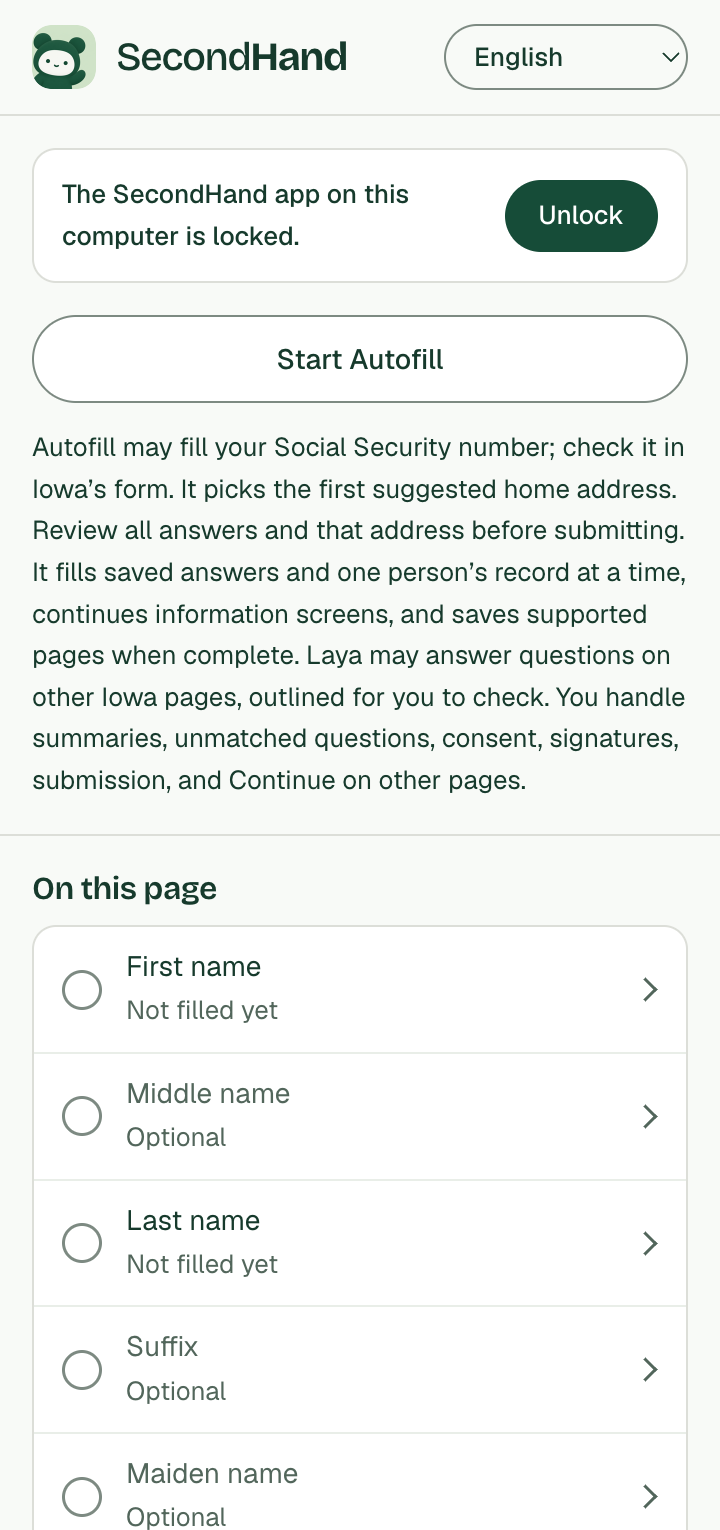
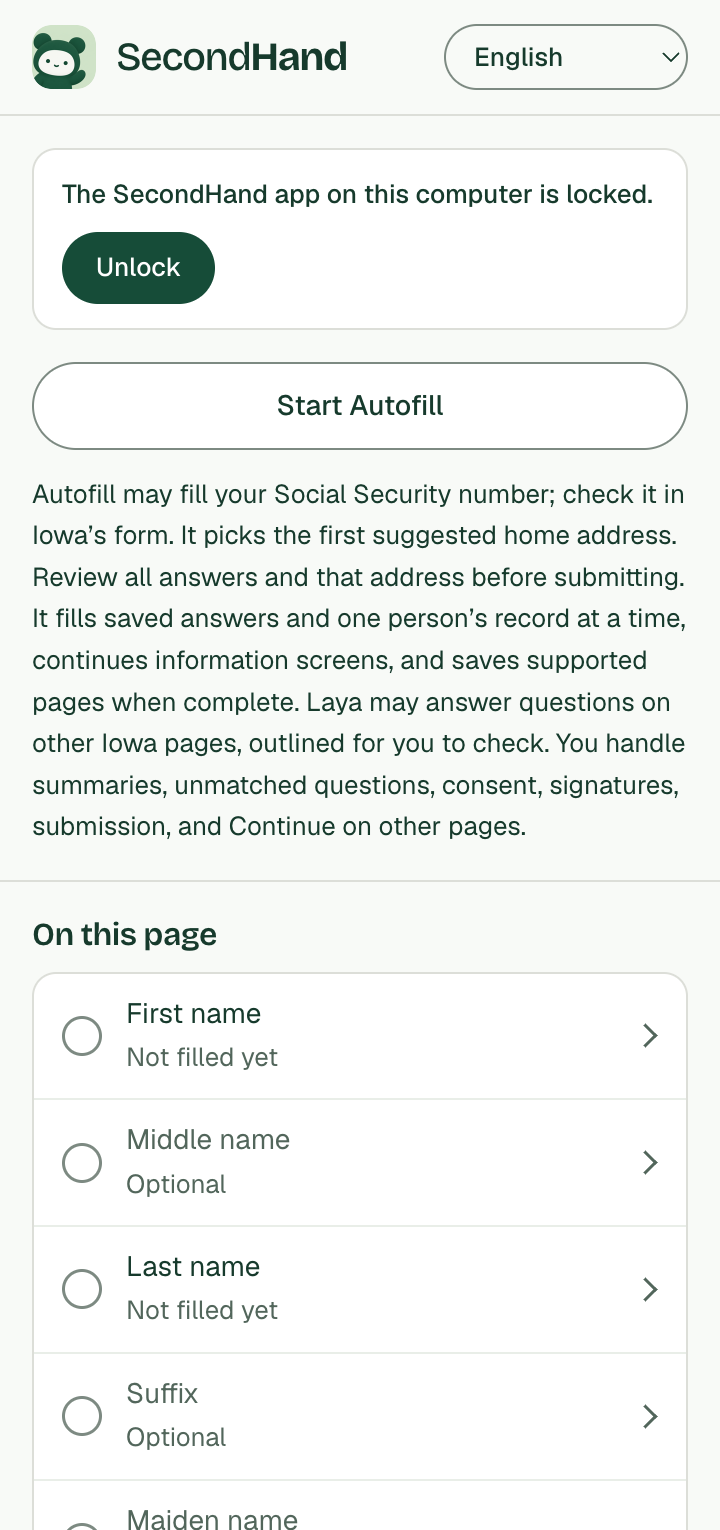
style: put the app's button under its line in the side panel, for every state
Unlock sat to the right of "The SecondHand app on this computer is locked", while
Open SecondHand dropped below the longer line about a closed app. The button now
sits under the line in every state, so it is always in the same place.

diff --git a/extension/panel.css b/extension/panel.css
@@ -58,7 +58,8 @@ main{padding:0 16px}
 .actions{position:sticky;top:0;z-index:1;margin:0 -16px 16px;padding:16px 16px 4px;background:var(--background);border-bottom:1px solid var(--border)}@media(max-height:480px){.actions{position:static}}
 .actions:not(:has(>button:not([hidden]),>a:not([hidden]),>.status:not(:empty):not([hidden]))){margin-bottom:0;padding:16px 0 0;border:0}
 /* The app needs opening or unlocking. */
-.desktop-row{display:flex;flex-wrap:wrap;justify-content:space-between;align-items:center;gap:8px 12px;margin:16px 0 0;padding:12px 14px;background:#fff;border:1px solid var(--border);border-radius:12px}.desktop-row>span{flex:1 1 200px;font-weight:500}.desktop-row.error>span{color:var(--danger)}.desktop-row .button{min-height:36px;padding:6px 16px;font-size:13px}
+/* The app's state, then its button under it, the same way for every state, whatever the length of the line. */
+.desktop-row{display:flex;flex-direction:column;align-items:flex-start;gap:8px;margin:16px 0 0;padding:12px 14px;background:#fff;border:1px solid var(--border);border-radius:12px}.desktop-row>span{font-weight:500}.desktop-row.error>span{color:var(--danger)}.desktop-row .button{min-height:36px;padding:6px 16px;font-size:13px}
 /* What happened, then the small print. An empty status keeps its place for screen readers and takes no room. */
 .status{margin-bottom:12px;overflow-wrap:anywhere}.status:empty{margin:0}.status.error{color:var(--danger)}
 .note{margin-bottom:12px;color:var(--muted-foreground)}.words-hint{margin-bottom:12px}.words-hint>.note{margin:0}
